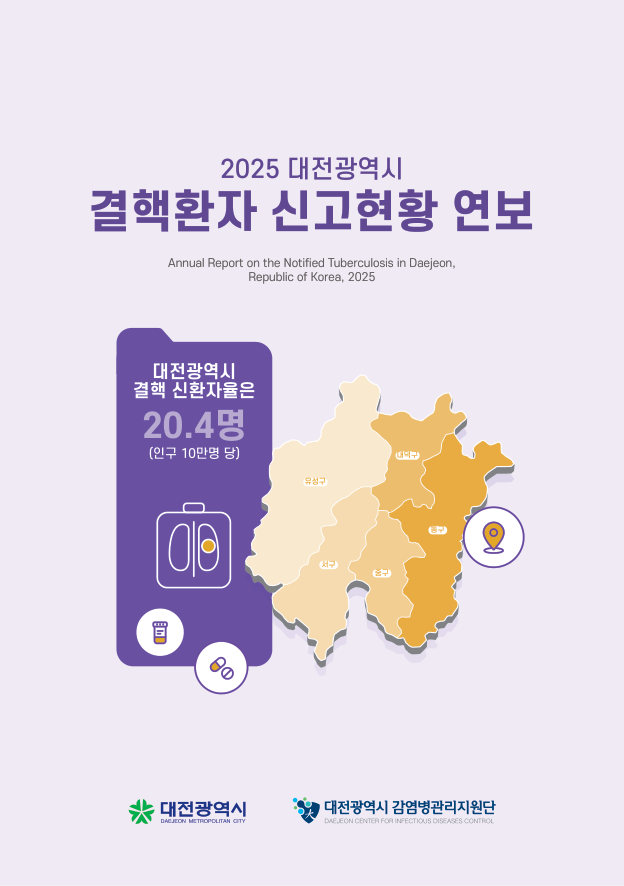
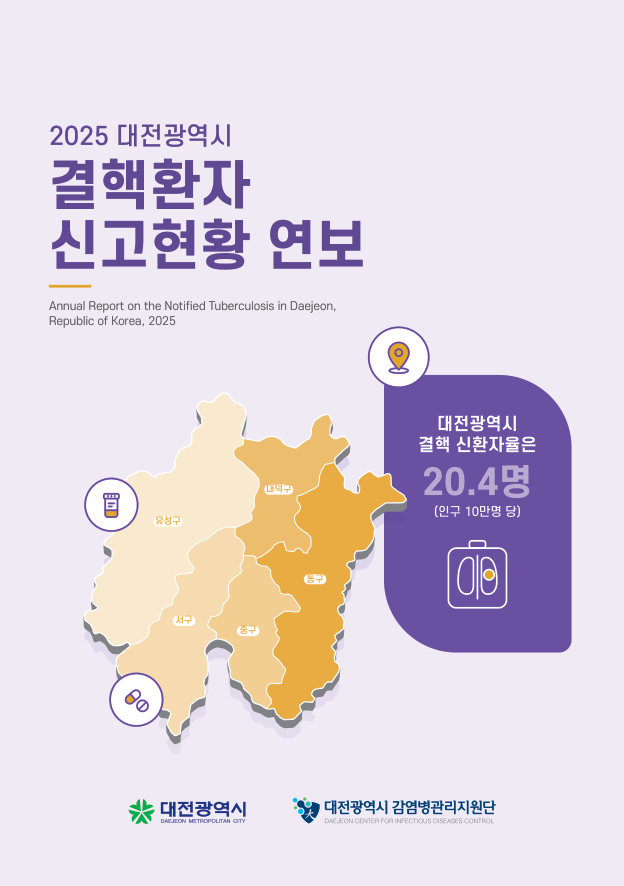
컨펌웹: 홈 수정안 카드의 결핵 앞표지를 최종 배치(C안)로

Changed region(s): [[0.0609, 0.1219, 0.9439, 0.8533], [0.7308, 0.2133, 0.8526, 0.2743]]

diff --git a/index.html b/index.html
@@ -177,7 +177,7 @@ body::before{content:"";position:fixed;inset:0 0 auto;height:env(safe-area-inset
 
 <script>
 // 이미지를 바꿔 올릴 때마다 IMG_V를 올리면 브라우저·CDN 캐시와 상관없이 새 이미지가 보임
-const IMG_V = "20261119-8";
+const IMG_V = "20261119-9";
 const IMG = n => "img/" + n + "?v=" + IMG_V;
 const PLANS = {
   "1": {
